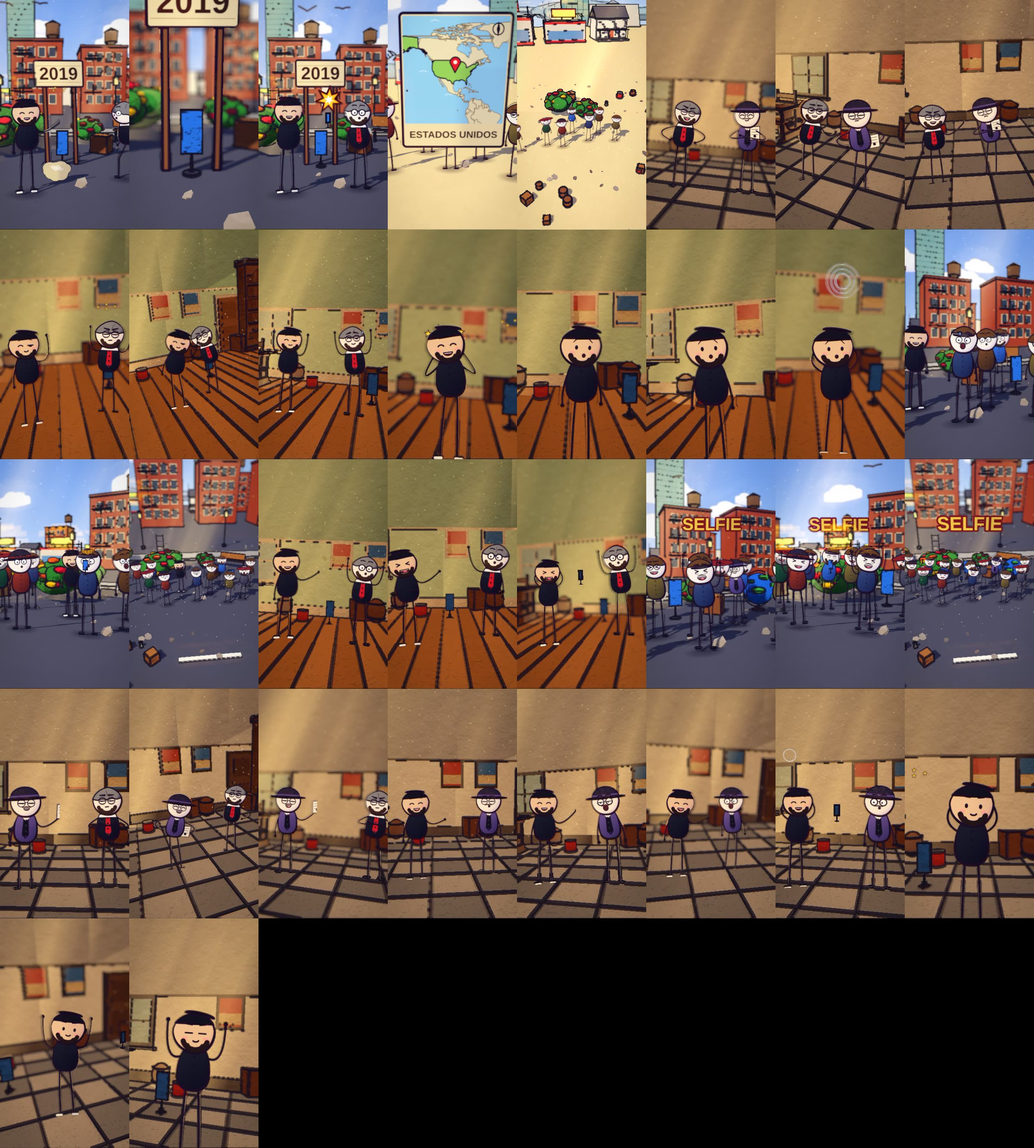
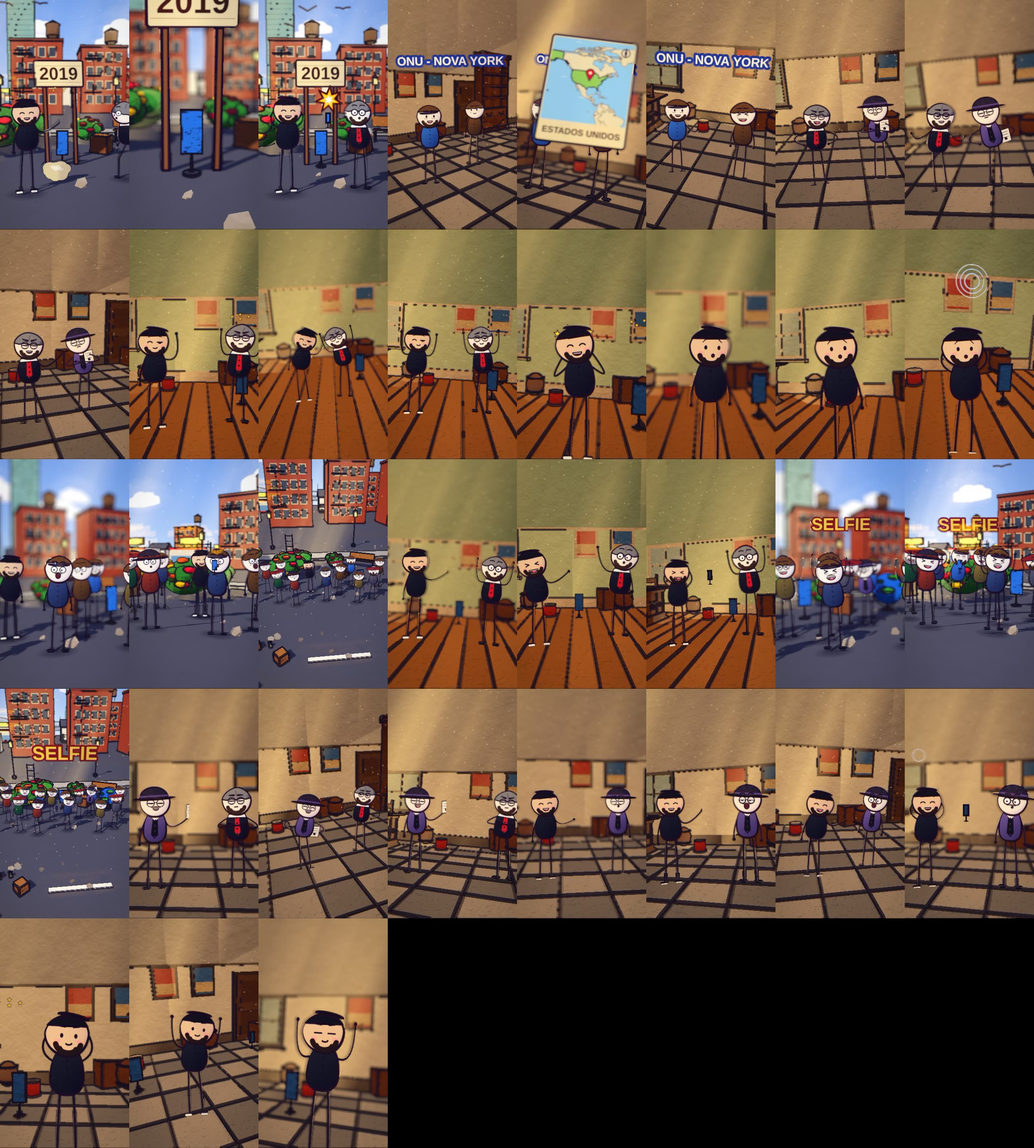
pia aprovado (refacao)
Claude-Session: https://claude.ai/code/session_01WNYYpRLbWz2wGKzkvYWt5N

diff --git a/ferramenta-shorts/stories/pia2022/revisao_storyboard.md b/ferramenta-shorts/stories/pia2022/revisao_storyboard.md
@@ -1,8 +1,8 @@
-b0: OK - cena confere com a frase: Em outubro de dois mil e vinte e dois, Elon Musk esteve na sede
-b1: OK - cena confere com a frase: Ele filmou a própria entrada e postou o vídeo na internet.
-b2: OK - cena confere com a frase: A legenda dizia: Entrando na sede do Twitter. Deixe isso afundar.
-b3: OK - cena confere com a frase: É um trocadilho, porque em inglês a palavra sink quer dizer pia, e também
-b4: OK - cena confere com a frase: Naquela época, ele estava prestes a fechar a compra do Twitter, por quarenta e
-b5: OK - cena confere com a frase: Ele também mudou o perfil, e escreveu que era o Chefe Twit.
-b6: OK - cena confere com a frase: A cena deu o que falar no mundo inteiro.
-b7: OK - cena confere com a frase: Uma pia, uma legenda e uma piada que ninguém esqueceu.
+b0: OK - em outubro de dois mil e vinte e dois Elon Musk esteve na sede do Twitter em São Francisco com uma pia, mapa Estados Unidos e Musk de braços erguidos na praça ao lado da pia
+b1: OK - ele filmou a própria entrada e postou o vídeo na internet, Musk sorrindo em close com a ponte Golden Gate ao fundo
+b2: OK - a legenda dizia entrando na sede do Twitter deixe isso afundar, texto DEIXE ISSO AFUNDAR com Musk e funcionário e a pia em close
+b3: OK - é um trocadilho porque em inglês sink quer dizer pia e também afundar, close da pia no centro e funcionário surpreso ao lado
+b4: OK - naquela época ele estava prestes a fechar a compra do Twitter por quarenta e quatro bilhões de dólares, Musk entregando notas de dinheiro ao dono do Twitter no balcão
+b5: OK - ele também mudou o perfil e escreveu que era o Chefe Twit, placa CHEFE TWIT com Musk e funcionário e multidão
+b6: OK - a cena deu o que falar no mundo inteiro, grupo comentando com globo e multidão na praça
+b7: OK - uma pia uma legenda e uma piada que ninguém esqueceu, Musk e funcionário com a pia ao fundo na praça
